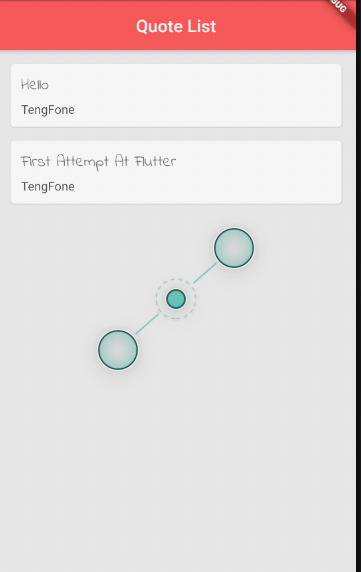
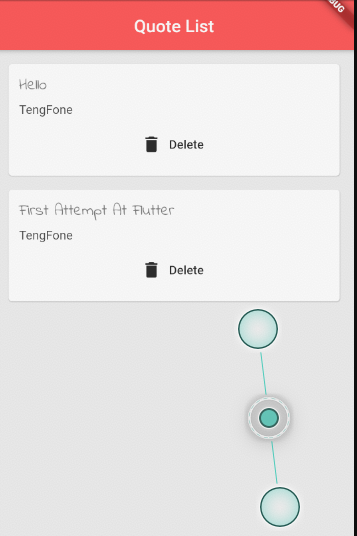
Cards Extract with Modular

diff --git a/lib/quote_card.dart b/lib/quote_card.dart
@@ -5,7 +5,9 @@ import 'quote.dart';
 class QuoteCard extends StatelessWidget {
 
   final Quote quote;
-  QuoteCard({this.quote});
+  final Function delete;
+
+  QuoteCard({this.quote, this.delete});
 
 
   @override
@@ -32,6 +34,14 @@ class QuoteCard extends StatelessWidget {
                     fontSize: 14,
                     color: Colors.grey[800]
                 )
+            ),
+            SizedBox(height: 8.0),
+            FlatButton.icon(
+              onPressed: delete,
+              label: Text(
+                "Delete",
+              ),
+              icon: Icon(Icons.delete),
             )
           ],
         ),

diff --git a/lib/main.dart b/lib/main.dart
@@ -32,7 +32,14 @@ class _QuoteListState extends State<QuoteList> {
         backgroundColor: Colors.redAccent,
       ),
       body: Column(
-        children: quotes.map((quote) => QuoteCard(quote: quote)).toList(),
+        children: quotes.map((quote) => QuoteCard(
+          quote: quote,
+          delete: (){
+            setState((){
+              quotes.remove(quote);
+            });
+          }
+        )).toList(),
       ),
     );
   }

diff --git a/README.md b/README.md
@@ -1,3 +1,3 @@
-# Cards
+# Cards with modularity and functions args
 
 ![sample_app](./assets/cards.png)
